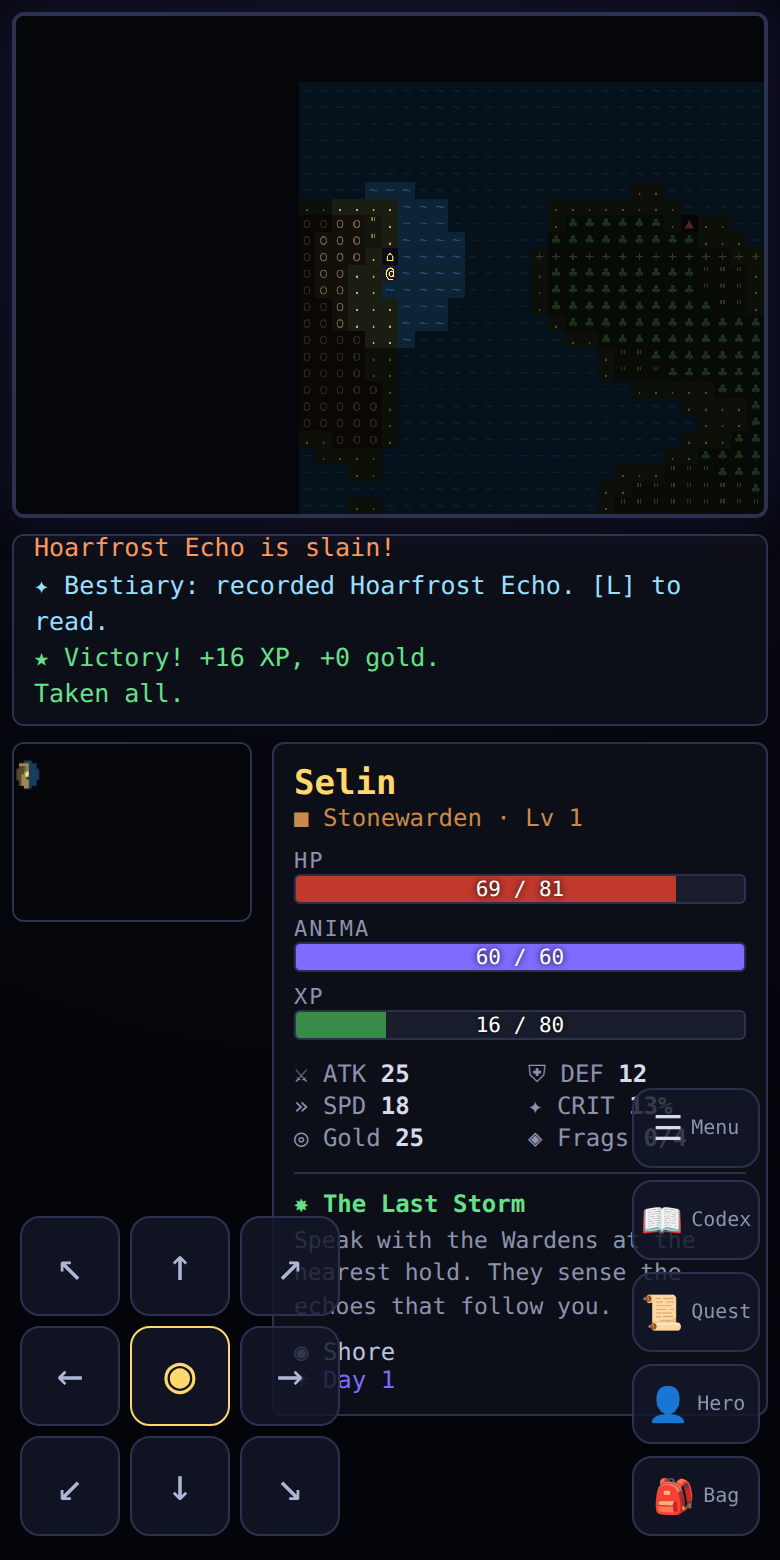
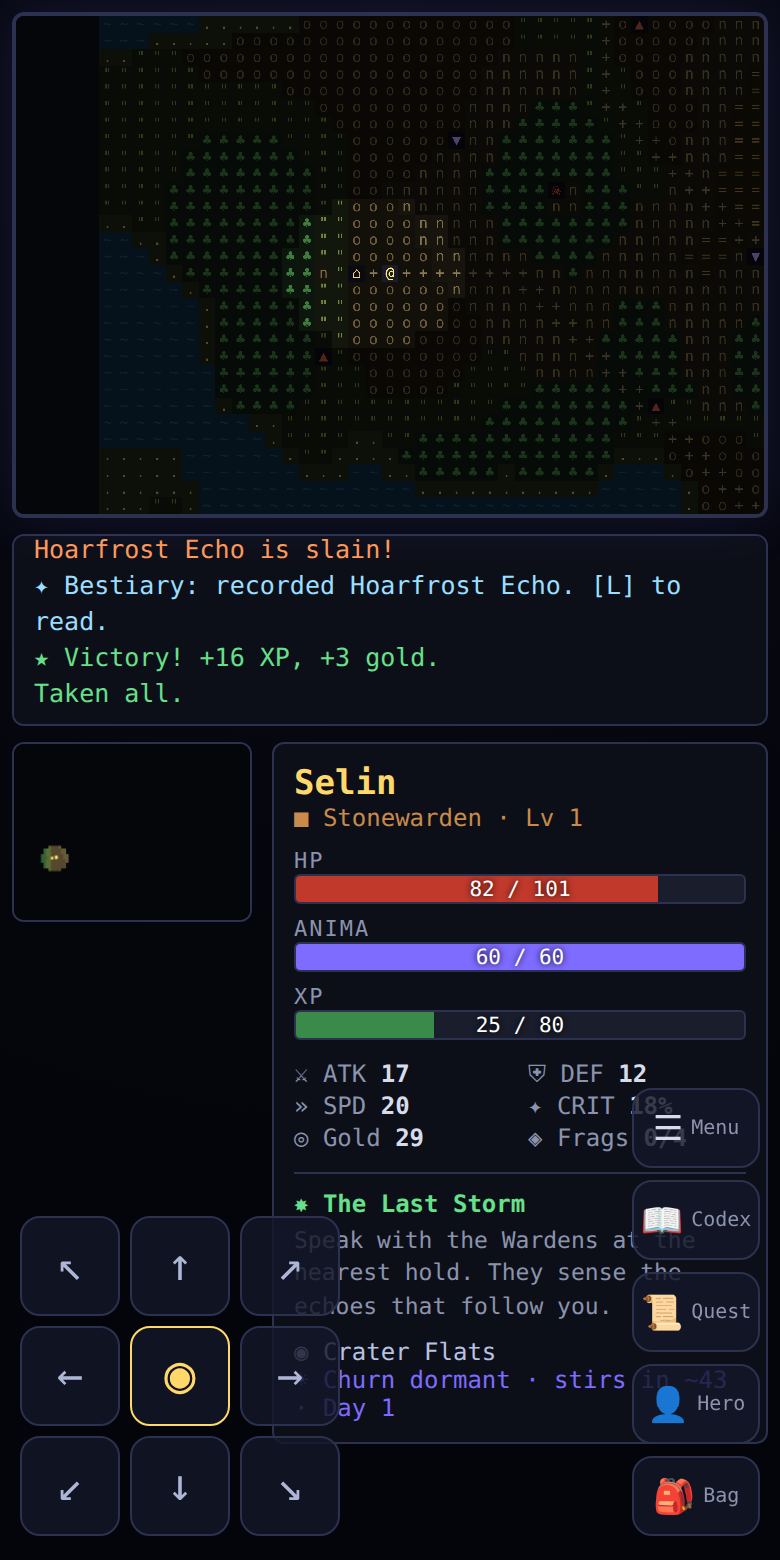
The Churn: a readable, duelable roaming front (the signature mechanic)
The Churn is no longer a simple on/off storm — it is a front that marches
east→west across the map on a forecastable schedule you can read and exploit:
- HUD forecast: dormant (stirs in ~N) / "Churn N tiles EAST → incoming" /
  "YOU STAND IN THE CHURN" / passed to the west.
- Visualized as a glowing band on the map and a vertical band on the minimap.
- Inside the front: the Arts surge (big Anima regen; far more with the
  Churn-Rider perk) — but encounters are far more frequent and several levels
  deadlier. Risk vs. reward you plan routes around.
- Explorer payoff: as the front passes, it lays the land bare and UNCOVERS
  undiscovered sites (announced + revealed on the map) — chase the Churn to chart
  the world.
- Pathfinder perk reduces ambushes; Forager slows starvation.

Reworked the storm model (front x/dir/speed), worldTurn, encounter scaling,
render shading, minimap band, HUD forecast; save-migrates old storm shape.

Tests: logic 834, desktop 31 (incl. Churn forecast + Anima surge), mobile 15.

Claude-Session: https://claude.ai/code/session_012JuAjoBx2YqM5W9EUw89GY

diff --git a/src/game.js b/src/game.js
@@ -16,7 +16,8 @@
     this.logLines = [];
     this.turnCount = 0;
     this.day = 1;
-    this.storm = { active: false, timer: 60, front: 999 };
+    // The Churn: a roaming front that sweeps east→west on a readable schedule.
+    this.storm = { active: false, x: 999, dir: -1, timer: 45, speed: 1.6 };
     this.disp = null;
   }
 
@@ -96,7 +97,7 @@
     TLU.Player.refreshAbilities(this.player);
     this.ensureCodex();
     this.turnCount = data.turnCount || 0;
-    this.storm = data.storm || this.storm;
+    this.storm = (data.storm && typeof data.storm.x === 'number') ? data.storm : { active: false, x: 999, dir: -1, timer: 45, speed: 1.6 };
     this.day = data.day || 1;
     this.questLog = data.questLog || {};
     this.mode = 'world'; this.state = 'play'; this.overlay = null;
@@ -139,18 +140,59 @@
     const p = this.player;
     // light regen while travelling
     p.hp = Math.min(p.maxHp, p.hp + 1 + (p.hpRegen || 0));
-    const sl = this.storm.active ? 3 : 1;
+    // Anima regen — the Arts quicken inside the Churn (and far more for a Churn-Rider)
+    let sl = 1;
+    if (this.inChurn(p.wx)) sl = 6 + ((p.perkFlags && p.perkFlags.churnrider) ? 8 : 0);
+    else if (this.storm.active) sl = 2;
     p.stormlight = Math.min(p.maxStormlight, p.stormlight + sl + (p.stormRegen || 0));
-    p.food = Math.max(0, p.food - 0.4);
+    p.food = Math.max(0, p.food - ((p.perkFlags && p.perkFlags.forager) ? 0.25 : 0.4));
     if (p.food <= 0 && this.turnCount % 4 === 0) { p.hp = Math.max(1, p.hp - 2); this.msg('%cYou are starving. Eat a ration ([I]).', 'bad'); }
-    // storm cycle
-    this.storm.timer--;
-    if (this.storm.timer <= 0) {
-      this.storm.active = !this.storm.active;
-      if (this.storm.active) { this.storm.timer = 14; this.storm.front = 0; this.msg('%c⛈ The Churn sweeps in from the east! The Arts flow freely, but the wilds grow deadly.', 'storm'); }
-      else { this.storm.timer = 90 + (this.turnCount % 40); this.storm.front = 999; this.day++; this.msg('%c☀ The Churn recedes. Dawn breaks on day ' + this.day + '.', 'note'); }
+    this.churnStep();
+  };
+
+  // ---------- the Churn (roaming front) ----------
+  Game.prototype.CHURN_BAND = 3;
+  Game.prototype.inChurn = function (x) { return this.storm.active && Math.abs(x - this.storm.x) <= this.CHURN_BAND; };
+  Game.prototype.churnStep = function () {
+    const s = this.storm, w = this.world;
+    if (s.active) {
+      s.x += s.dir * s.speed;
+      this.revealChurnColumn(Math.round(s.x));
+      if (s.x < -2) {
+        s.active = false; s.timer = 55 + (this.turnCount % 40); this.day++;
+        this.msg('%c☀ The Churn passes beyond the western sea. The land lies still. (Day ' + this.day + ')', 'note');
+      }
+    } else {
+      s.timer--;
+      if (s.timer <= 0) {
+        s.active = true; s.x = w.w + 1; s.dir = -1;
+        this.msg('%c⛈ The Churn rises in the EAST and begins its march. The Arts quicken — but the wilds turn deadly in its path.', 'storm');
+      }
     }
-    if (this.storm.active) this.storm.front = Math.max(0, this.storm.front - 4);
+  };
+  // the Churn lays the land bare in its path; uncovers sites for the explorer
+  Game.prototype.revealChurnColumn = function (cx) {
+    const w = this.world, p = this.player;
+    for (let dx = -1; dx <= 1; dx++) {
+      const x = cx + dx; if (x < 0 || x >= w.w) continue;
+      for (let y = 0; y < w.h; y++) if (!p.visited[x + ',' + y]) p.visited[x + ',' + y] = 1;
+    }
+    // announce a newly-uncovered site (one per step, to avoid spam)
+    for (const site of w.sites) {
+      if (Math.abs(site.x - cx) < 1 && !site._uncovered) {
+        site._uncovered = true;
+        if (site.type !== 'town') { this.msg('%c◹ The Churn lays bare ' + site.name + ' — ' + this.dirWord(site.x - p.wx, site.y - p.wy) + '.', 'skill'); break; }
+      }
+    }
+  };
+  // HUD forecast text
+  Game.prototype.churnForecast = function () {
+    const s = this.storm, p = this.player;
+    if (!s.active) return { text: '☀ Churn dormant · stirs in ~' + Math.max(0, Math.round(s.timer)), cls: '' };
+    if (this.inChurn(p.wx)) return { text: '⛈ YOU STAND IN THE CHURN', cls: 'churn' };
+    const d = Math.round(s.x - p.wx);
+    if (d > 0) return { text: '⛈ Churn ' + d + ' tiles EAST → (incoming)', cls: '' };
+    return { text: '⛈ Churn ' + Math.abs(d) + ' tiles WEST ← (passed)', cls: '' };
   };
 
   Game.prototype.maybeEncounter = function () {
@@ -158,8 +200,9 @@
     const t = w.tiles[p.wy][p.wx];
     let chance = 0.12;
     if (t.road) chance = 0.04;
-    if (this.storm.active) chance += 0.06;
+    if (this.inChurn(p.wx)) chance += 0.14; else if (this.storm.active) chance += 0.04;
     chance += (BIOME_DANGER[t.biome] || 0) * 0.015;
+    if (p.perkFlags && p.perkFlags.pathfinder) chance *= 0.6;
     if (!this.rng) this.rng = new TLU.RNG(this.seed + ':enc');
     if (this.rng.chance(chance)) {
       const lvl = this.encounterLevel(t);
@@ -171,7 +214,7 @@
   Game.prototype.encounterLevel = function (t) {
     const p = this.player;
     const eastFactor = (p.wx / this.world.w) * 4;
-    const danger = (BIOME_DANGER[t.biome] || 0) + eastFactor + (this.storm.active ? 2 : 0);
+    const danger = (BIOME_DANGER[t.biome] || 0) + eastFactor + (this.inChurn(p.wx) ? 4 : 0);
     const lvl = Math.round(p.level * 0.7 + danger * 0.7 + this.rng.float(-1, 1.5));
     return Math.max(1, Math.min(20, lvl));
   };

diff --git a/src/render.js b/src/render.js
@@ -60,7 +60,11 @@
         let glyph = t.glyph, color = t.color, bg = t.bg;
         if (t.road && !t.site) { glyph = '+'; color = '#8a7a55'; }
         if (t.site) { glyph = t.site.glyph; color = t.site.color; bg = '#0a0a12'; }
-        if (game.storm && game.storm.active && mx >= game.storm.front) { bg = '#160c22'; }
+        if (game.storm && game.storm.active) {
+          const dxF = mx - game.storm.x;
+          if (Math.abs(dxF) <= 3) { bg = '#3a1455'; if (Math.abs(dxF) <= 1) bg = '#5a1f7a'; }   // the front
+          else if (dxF < 0) bg = '#160c22';                                                       // the wake
+        }
         if (!seen) { color = dim(color, 0.42); bg = dim(bg || '#05060a', 0.5); glyph = t.site ? t.site.glyph : glyph; }
         disp.put(sx, sy, glyph, color, bg);
       }
@@ -128,6 +132,11 @@
       const t = w.tiles[y][x];
       ctx.fillStyle = t.site ? t.site.color : dim(t.color, 0.8);
       ctx.fillRect(x * sx, y * sy, Math.ceil(sx), Math.ceil(sy));
+    }
+    // the Churn front as a vertical band
+    if (game.storm && game.storm.active && game.storm.x >= 0 && game.storm.x <= w.w) {
+      ctx.fillStyle = 'rgba(150,80,220,0.55)';
+      ctx.fillRect(Math.round(game.storm.x * sx) - 1, 0, Math.max(2, Math.ceil(sx * 2)), H);
     }
     ctx.fillStyle = '#fff36b';
     ctx.fillRect(game.player.wx * sx - 1, game.player.wy * sy - 1, 3, 3);

diff --git a/test/browser.js b/test/browser.js
@@ -71,6 +71,18 @@ function serve() {
   await press('Enter');
   ok('talent chosen', await page.evaluate(() => Object.keys(window.GAME.player.perks).length) > perksBefore);
   await press('Escape');
+  // the Churn: force the front onto the player and verify forecast + effects
+  const churn = await page.evaluate(() => {
+    const g = window.GAME;
+    g.storm = { active: true, x: g.player.wx, dir: -1, speed: 1.6, timer: 10 };
+    const inc = g.inChurn(g.player.wx);
+    g.player.stormlight = 0;
+    g.worldTurn();
+    g.render();
+    return { inc: inc, fc: g.churnForecast().text, anima: g.player.stormlight };
+  });
+  ok('Churn front detected + forecast', churn.inc === true && /CHURN/i.test(churn.fc));
+  ok('Churn supercharges Anima regen', churn.anima >= 5);
 
   // ----- teleport to a town and exercise services -----
   await page.evaluate(() => {

diff --git a/src/ui.js b/src/ui.js
@@ -59,7 +59,8 @@
       ? (game.world.tiles[p.wy] && game.world.tiles[p.wy][p.wx] ? game.world.tiles[p.wy][p.wx].name : '')
       : (game.dungeon.site ? game.dungeon.site.name + ' — Floor ' + game.dungeon.depth : 'Ruin');
     html += '<div class="loc">◉ ' + esc(loc) + '</div>';
-    html += '<div class="time">' + (game.storm && game.storm.active ? '⛈ THE CHURN' : '☀ Day ' + game.day) + '</div>';
+    const fc = game.churnForecast ? game.churnForecast() : { text: '☀ Day ' + game.day, cls: '' };
+    html += '<div class="time churn-' + (fc.cls || 'none') + '">' + esc(fc.text) + ' · Day ' + game.day + '</div>';
     el.innerHTML = html;
   }
 

diff --git a/styles.css b/styles.css
@@ -68,6 +68,7 @@ html, body {
 .qbody { color: var(--dim); font-size: 11.5px; margin-top: 3px; line-height: 1.4; }
 .loc { margin-top: 8px; font-size: 12px; color: #b9c2e0; }
 .time { font-size: 12px; color: var(--storm); }
+.time.churn-churn { color: #ff7adf; font-weight: bold; animation: pulse 1s infinite; }
 #controls { background: var(--panel); border: 1px solid var(--border); border-radius: 6px; padding: 10px; font-size: 11.5px; color: var(--dim); line-height: 1.7; }
 .ctrl-h { color: var(--gold); margin-bottom: 4px; }
 
